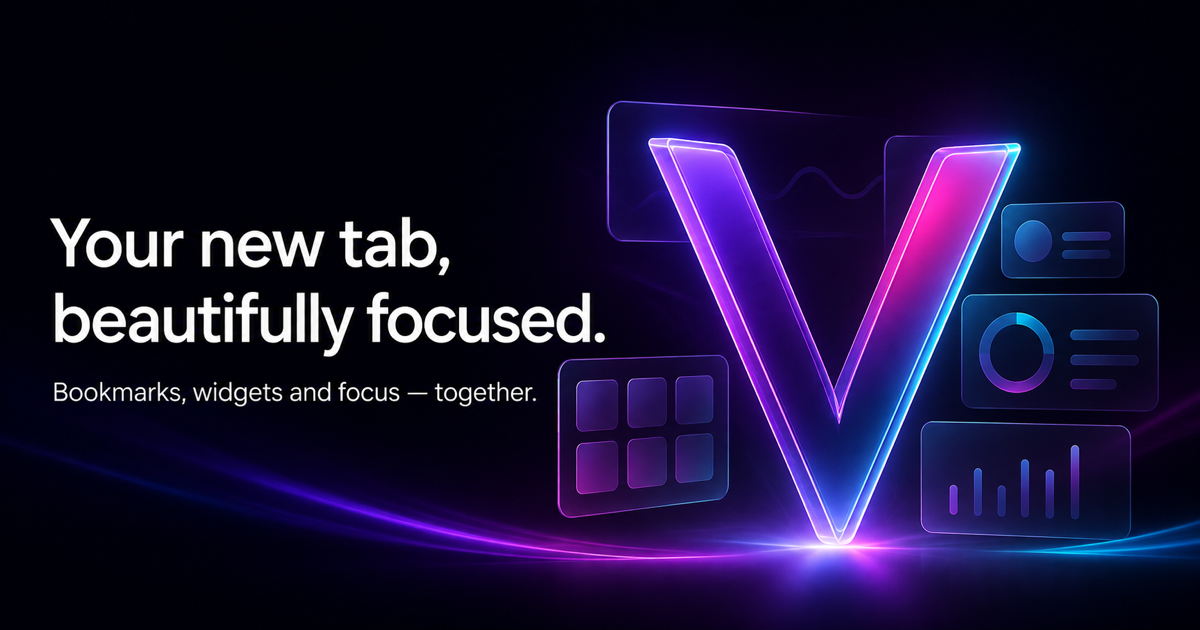
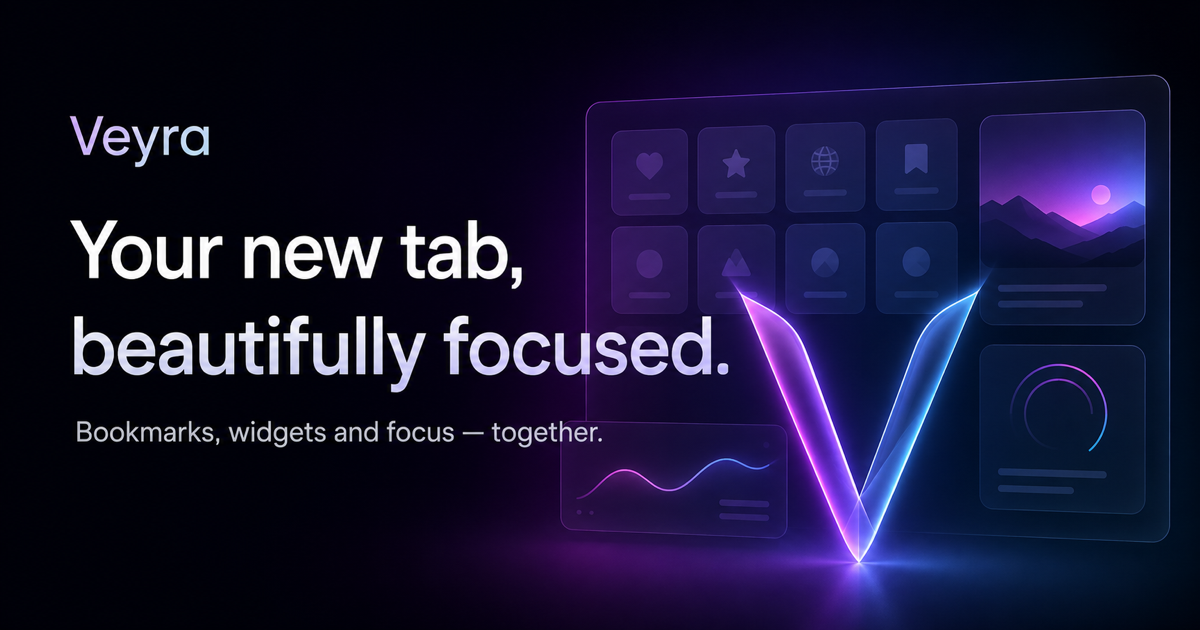
Rebrand site as Veyra and improve mobile layout

diff --git a/app/page.tsx b/app/page.tsx
@@ -12,13 +12,13 @@ const features = [
 ];
 
 const faqs = [
-  ['What happens to my current bookmarks?', 'Nothing is removed. Viora works alongside your browser bookmarks, and you can import them into visual boards whenever you are ready.'],
+  ['What happens to my current bookmarks?', 'Nothing is removed. Veyra works alongside your browser bookmarks, and you can import them into visual boards whenever you are ready.'],
   ['Is this a subscription?', 'No. Both options are one-time purchases. The one-year pass never renews automatically, while the lifetime plan is yours for good.'],
-  ['Which browsers are supported?', 'Viora works on desktop versions of Chrome, Edge, Brave, Opera and other Chromium-based browsers.'],
+  ['Which browsers are supported?', 'Veyra works on desktop versions of Chrome, Edge, Brave, Opera and other Chromium-based browsers.'],
   ['Can I use it on more than one computer?', 'Yes. Sign in with the same account and your boards stay in sync across your computers.'],
-  ['Is my information private?', 'Your workspace is yours. Viora does not sell personal information and does not use your bookmarks for advertising. See the Privacy Policy for full details.'],
-  ['Will it slow down my browser?', 'Viora is designed to stay lightweight. It loads when you open a new tab and avoids unnecessary background work.'],
-  ['How do I install after buying?', 'Your receipt includes an install link and activation instructions. Install Viora, open a new tab, and follow the short setup flow.'],
+  ['Is my information private?', 'Your workspace is yours. Veyra does not sell personal information and does not use your bookmarks for advertising. See the Privacy Policy for full details.'],
+  ['Will it slow down my browser?', 'Veyra is designed to stay lightweight. It loads when you open a new tab and avoids unnecessary background work.'],
+  ['How do I install after buying?', 'Your receipt includes an install link and activation instructions. Install Veyra, open a new tab, and follow the short setup flow.'],
   ['What if it is not for me?', 'You can request a refund within seven days of purchase, subject to the simple terms in our Refund Policy.'],
 ];
 
@@ -32,30 +32,40 @@ export default function Home() {
   return (
     <main>
       <nav className="nav shell" aria-label="Main navigation">
-        <a className="brand" href="#top" aria-label="Viora home"><NextImage src="/viora-logo.png" width={38} height={38} alt="" /><span>Viora</span></a>
+        <a className="brand" href="#top" aria-label="Veyra home"><NextImage src="/veyra-logo.png" width={38} height={38} alt="" /><span>Veyra</span></a>
         <div className="nav-links"><a href="#features">Features</a><a href="#how">How it works</a><a href="#pricing">Pricing</a><a href="#faq">FAQ</a></div>
-        <a className="button button-small" href="#pricing">Get Viora</a>
+        <a className="button button-small" href="#pricing">Get Veyra</a>
       </nav>
 
       <section className="hero shell" id="top">
         <div className="eyebrow"><span className="status-dot" /> Browser extension</div>
         <h1>Your new tab,<br /><span>beautifully focused.</span></h1>
         <p className="hero-copy">Bring your bookmarks, tools, notes and daily focus into one calm, personal workspace—ready every time you open a tab.</p>
-        <div className="hero-actions"><a className="button" href="#pricing">Get Viora <ArrowRight size={17} /></a><a className="text-link" href="#features">See what’s inside</a></div>
-        <div className="social-proof"><div className="avatars" aria-hidden="true"><span>AJ</span><span>ML</span><span>SK</span><span>+</span></div><p><strong>800+ people</strong> already use Viora</p></div>
+        <div className="hero-actions"><a className="button" href="#pricing">Get Veyra <ArrowRight size={17} /></a><a className="text-link" href="#features">See what’s inside</a></div>
+        <div className="social-proof"><div className="avatars" aria-hidden="true"><span>AJ</span><span>ML</span><span>SK</span><span>+</span></div><p><strong>800+ people</strong> already use Veyra</p></div>
         <div className="product-frame">
-          <div className="window-bar"><i /><i /><i /><span>New Tab — Viora</span></div>
-          <NextImage src="/viora-workspace.png" width={2538} height={1274} priority alt="Viora new-tab workspace with bookmarks, widgets, and a wallpaper" />
+          <div className="window-bar"><i /><i /><i /><span>New Tab — Veyra</span></div>
+          <NextImage src="/veyra-workspace.png" width={2538} height={1159} priority alt="Veyra new-tab workspace with bookmarks, widgets, and a wallpaper" />
           <div className="floating-note"><Check size={15} /> Everything you need, one tab away</div>
         </div>
-        <div className="browser-row"><span>Works with</span><b>Chrome</b><b>Edge</b><b>Brave</b><b>Opera</b><b>+ more</b></div>
+        <div className="browser-row" aria-label="Veyra works with Chrome, Yandex Browser, Microsoft Edge, Opera, Brave and more Chromium browsers">
+          <span>Works with</span>
+          <div className="browser-icons">
+            <NextImage src="/browsers/chrome.png" width={38} height={38} alt="Google Chrome" title="Google Chrome" />
+            <NextImage src="/browsers/yandex.png" width={38} height={38} alt="Yandex Browser" title="Yandex Browser" />
+            <NextImage src="/browsers/microsoft.png" width={38} height={38} alt="Microsoft Edge" title="Microsoft Edge" />
+            <NextImage src="/browsers/opera.png" width={38} height={38} alt="Opera" title="Opera" />
+            <NextImage src="/browsers/brave.png" width={38} height={38} alt="Brave" title="Brave" />
+          </div>
+          <b>+ more</b>
+        </div>
       </section>
 
       <section className="section shell" id="features">
-        <div className="section-head"><div className="eyebrow">Why Viora</div><h2>Your browser opens a new tab.<br />Viora opens your day.</h2><p>Stop treating bookmarks like a filing cabinet. Put the things you care about on the page you already see all day.</p></div>
+        <div className="section-head"><div className="eyebrow">Why Veyra</div><h2>Your browser opens a new tab.<br />Veyra opens your day.</h2><p>Stop treating bookmarks like a filing cabinet. Put the things you care about on the page you already see all day.</p></div>
         <div className="compare-grid">
           <article className="compare-card dim"><p className="card-kicker">A normal new tab</p><ul><li><span>×</span>A blank page or someone else’s shortcuts</li><li><span>×</span>Too many tabs open “for later”</li><li><span>×</span>Bookmarks buried inside folders</li><li><span>×</span>Useful tools scattered across apps</li></ul></article>
-          <article className="compare-card bright"><p className="card-kicker">Your new tab with Viora</p><ul><li><Check />Everything saved where you can see it</li><li><Check />One shortcut to save, then close the tab</li><li><Check />Visual boards that stay memorable</li><li><Check />Widgets and focus tools in one place</li></ul></article>
+          <article className="compare-card bright"><p className="card-kicker">Your new tab with Veyra</p><ul><li><Check />Everything saved where you can see it</li><li><Check />One shortcut to save, then close the tab</li><li><Check />Visual boards that stay memorable</li><li><Check />Widgets and focus tools in one place</li></ul></article>
         </div>
 
         <div className="section-head feature-heading"><div className="eyebrow">Features</div><h2>Everything you need.<br />Nothing you don’t.</h2></div>
@@ -75,8 +85,8 @@ export default function Home() {
       <section className="section shell" id="pricing">
         <div className="section-head"><div className="eyebrow">Pricing</div><h2>Upgrade your everyday browsing.</h2><p className="offer">Launch offer · 50% off</p></div>
         <div className="pricing-grid">
-          <article className="price-card"><p className="card-kicker">1-Year Pass</p><div className="price"><s>$18</s><strong>$9</strong><span>/ year</span></div><small>ONE-TIME PAYMENT · NO AUTO-RENEWAL</small><ul><li><Check />Full access for 12 months</li><li><Check />Unlimited boards and pages</li><li><Check />All widgets, wallpapers and updates</li><li><Check />Use on all your computers</li><li><Check />Friendly support included</li></ul><a className="button secondary-button" href="#checkout-note">Get one year for $9</a><p className="guarantee">7-day money-back guarantee</p></article>
-          <article className="price-card featured"><span className="best">Best value</span><p className="card-kicker">Lifetime Access</p><div className="price"><s>$50</s><strong>$25</strong></div><small>ONE-TIME PAYMENT · YOURS FOREVER</small><ul><li><Check />Lifetime access, pay once</li><li><Check />Unlimited boards and pages</li><li><Check />All widgets, wallpapers and updates</li><li><Check />Use on all your computers</li><li><Check />Priority support included</li></ul><a className="button" href="#checkout-note">Get lifetime for $25</a><p className="guarantee">7-day money-back guarantee</p></article>
+          <article className="price-card"><p className="card-kicker">1-Year Pass</p><div className="price"><s>$25.60</s><strong>$12.80</strong><span>/ year</span></div><small>ONE-TIME PAYMENT · NO AUTO-RENEWAL</small><ul><li><Check />Full access for 12 months</li><li><Check />Unlimited boards and pages</li><li><Check />All widgets, wallpapers and updates</li><li><Check />Use on all your computers</li><li><Check />Friendly support included</li></ul><a className="button secondary-button" href="#checkout-note">Get one year for $12.80</a><p className="guarantee">7-day money-back guarantee</p></article>
+          <article className="price-card featured"><span className="best">Best value</span><p className="card-kicker">Lifetime Access</p><div className="price"><s>$45.60</s><strong>$22.80</strong></div><small>ONE-TIME PAYMENT · YOURS FOREVER</small><ul><li><Check />Lifetime access, pay once</li><li><Check />Unlimited boards and pages</li><li><Check />All widgets, wallpapers and updates</li><li><Check />Use on all your computers</li><li><Check />Priority support included</li></ul><a className="button" href="#checkout-note">Get lifetime for $22.80</a><p className="guarantee">7-day money-back guarantee</p></article>
         </div>
         <p id="checkout-note" className="checkout-note"><Sparkles size={17} /> Checkout links are ready to connect to your payment provider.</p>
       </section>
@@ -88,7 +98,7 @@ export default function Home() {
 
       <section className="final-cta"><div className="orb orb-one" /><div className="orb orb-two" /><div className="shell"><Bookmark size={28} /><h2>Make every new tab<br />a place worth opening.</h2><p>One purchase. A calmer, more personal browser every day.</p><a className="button" href="#pricing">Choose your plan <ArrowRight size={17} /></a></div></section>
 
-      <footer><div className="shell footer-grid"><div><a className="brand" href="#top"><NextImage src="/viora-logo.png" width={38} height={38} alt="" /><span>Viora</span></a><p>Your new tab, beautifully focused.</p></div><div><h3>Product</h3><a href="#features">Features</a><a href="#pricing">Pricing</a><a href="#faq">FAQ</a></div><div><h3>Legal</h3><Link href="/privacy">Privacy Policy</Link><Link href="/terms">Terms of Service</Link><Link href="/cookies">Cookie Policy</Link><Link href="/refunds">Refund Policy</Link></div><div><h3>Help</h3><Link href="/support">Support</Link><Link href="/license">License</Link></div></div><div className="shell footer-bottom"><span>© 2026 Viora. All rights reserved.</span><span>Made for calmer browsing.</span></div></footer>
+      <footer><div className="shell footer-grid"><div><a className="brand" href="#top"><NextImage src="/veyra-logo.png" width={38} height={38} alt="" /><span>Veyra</span></a><p>Your new tab, beautifully focused.</p></div><div><h3>Product</h3><a href="#features">Features</a><a href="#pricing">Pricing</a><a href="#faq">FAQ</a></div><div><h3>Legal</h3><Link href="/privacy">Privacy Policy</Link><Link href="/terms">Terms of Service</Link><Link href="/cookies">Cookie Policy</Link><Link href="/refunds">Refund Policy</Link></div><div><h3>Help</h3><Link href="/support">Support</Link><Link href="/license">License</Link><a href="mailto:veyrasoft@gmail.com">veyrasoft@gmail.com</a></div></div><div className="shell footer-bottom"><span>© 2026 Veyra. All rights reserved.</span><span>Made for calmer browsing.</span></div></footer>
     </main>
   );
 }

diff --git a/app/privacy/page.tsx b/app/privacy/page.tsx
@@ -1,2 +1,2 @@
 import { LegalPage } from '@/components/legal-page';
-export default function Privacy(){return <LegalPage title="Privacy Policy"><p>This policy explains how Viora handles information when you use the website and browser extension.</p><h2>Information we collect</h2><p>We may collect account details you provide, purchase and licence status, support messages, and limited technical information needed to operate and improve Viora. Payment card details are processed by the selected payment provider and are not stored by Viora.</p><h2>Your workspace data</h2><p>Bookmarks, boards, notes and preferences may be stored locally in your browser or synced when you choose an account-based feature. We use that information only to provide the product, maintain security, and respond to support requests. We do not sell personal information or use bookmark contents for targeted advertising.</p><h2>Browser permissions</h2><p>Viora requests only the browser permissions required for features such as replacing the new-tab page, importing bookmarks, saving the active tab, storing preferences and optional account sync. Permissions are described in the extension listing.</p><h2>Service providers</h2><p>We may use vetted providers for hosting, authentication, analytics, email support and payment processing. They may process limited information on our behalf under their own security and privacy obligations.</p><h2>Retention and security</h2><p>We retain personal information only while needed for the purposes described here, legal obligations, fraud prevention and dispute resolution. Reasonable administrative and technical safeguards are used, but no online service can promise absolute security.</p><h2>Your choices</h2><p>You may export or delete locally stored workspace data through the extension. You may also request access, correction or deletion of account information, subject to applicable law.</p><h2>Children</h2><p>Viora is not directed to children under 13 and we do not knowingly collect their personal information.</p><h2>Changes and contact</h2><p>We may update this policy as the product evolves. Material changes will be posted here. Add your support email before launch for privacy requests.</p></LegalPage>}
+export default function Privacy(){return <LegalPage title="Privacy Policy"><p>This policy explains how Veyra handles information when you use the website and browser extension.</p><h2>Information we collect</h2><p>We may collect account details you provide, purchase and licence status, support messages, and limited technical information needed to operate and improve Veyra. Payment card details are processed by the selected payment provider and are not stored by Veyra.</p><h2>Your workspace data</h2><p>Bookmarks, boards, notes and preferences may be stored locally in your browser or synced when you choose an account-based feature. We use that information only to provide the product, maintain security, and respond to support requests. We do not sell personal information or use bookmark contents for targeted advertising.</p><h2>Browser permissions</h2><p>Veyra requests only the browser permissions required for features such as replacing the new-tab page, importing bookmarks, saving the active tab, storing preferences and optional account sync. Permissions are described in the extension listing.</p><h2>Service providers</h2><p>We may use vetted providers for hosting, authentication, analytics, email support and payment processing. They may process limited information on our behalf under their own security and privacy obligations.</p><h2>Retention and security</h2><p>We retain personal information only while needed for the purposes described here, legal obligations, fraud prevention and dispute resolution. Reasonable administrative and technical safeguards are used, but no online service can promise absolute security.</p><h2>Your choices</h2><p>You may export or delete locally stored workspace data through the extension. You may also request access, correction or deletion of account information, subject to applicable law.</p><h2>Children</h2><p>Veyra is not directed to children under 13 and we do not knowingly collect their personal information.</p><h2>Changes and contact</h2><p>We may update this policy as the product evolves. Material changes will be posted here. For privacy requests, email <a href="mailto:veyrasoft@gmail.com">veyrasoft@gmail.com</a>.</p></LegalPage>}

diff --git a/app/terms/page.tsx b/app/terms/page.tsx
@@ -1,2 +1,2 @@
 import { LegalPage } from '@/components/legal-page';
-export default function Terms(){return <LegalPage title="Terms of Service"><p>These terms govern your purchase and use of the Viora website, extension and related services.</p><h2>Using Viora</h2><p>You must be legally able to enter this agreement and use Viora only in compliance with applicable law. You are responsible for your account, devices and the content you save.</p><h2>Purchases and access</h2><p>The one-year pass provides access for twelve months and does not automatically renew. Lifetime access means access for the commercial life of the product, not the lifetime of an individual. Prices and included features are shown at checkout.</p><h2>Acceptable use</h2><p>You may not misuse the service, interfere with its operation, bypass licence controls, reverse engineer protected portions except where law permits, resell access, or use Viora to store or transmit unlawful content.</p><h2>Updates and availability</h2><p>We may improve, change or discontinue features. We aim to keep Viora reliable but do not guarantee uninterrupted or error-free operation. Browser updates and third-party services may affect compatibility.</p><h2>Intellectual property</h2><p>Viora, its software, branding, visual design and documentation are owned by the publisher or its licensors. Your purchase grants a limited licence described in the Licence Agreement; it does not transfer ownership.</p><h2>Disclaimers and liability</h2><p>To the maximum extent allowed by law, Viora is provided “as is.” We are not liable for indirect, incidental or consequential loss, or for loss of data that could reasonably have been backed up. Nothing here excludes rights that cannot legally be excluded.</p><h2>Termination</h2><p>We may suspend access for material breach, fraud or harmful use. You may stop using Viora at any time. Terms that by nature should survive termination will remain in effect.</p><h2>Governing law and contact</h2><p>Add your governing jurisdiction and legal contact details before launch. Consumer protections in your place of residence may still apply.</p></LegalPage>}
+export default function Terms(){return <LegalPage title="Terms of Service"><p>These terms govern your purchase and use of the Veyra website, extension and related services.</p><h2>Using Veyra</h2><p>You must be legally able to enter this agreement and use Veyra only in compliance with applicable law. You are responsible for your account, devices and the content you save.</p><h2>Purchases and access</h2><p>The one-year pass provides access for twelve months and does not automatically renew. Lifetime access means access for the commercial life of the product, not the lifetime of an individual. Prices and included features are shown at checkout.</p><h2>Acceptable use</h2><p>You may not misuse the service, interfere with its operation, bypass licence controls, reverse engineer protected portions except where law permits, resell access, or use Veyra to store or transmit unlawful content.</p><h2>Updates and availability</h2><p>We may improve, change or discontinue features. We aim to keep Veyra reliable but do not guarantee uninterrupted or error-free operation. Browser updates and third-party services may affect compatibility.</p><h2>Intellectual property</h2><p>Veyra, its software, branding, visual design and documentation are owned by the publisher or its licensors. Your purchase grants a limited licence described in the Licence Agreement; it does not transfer ownership.</p><h2>Disclaimers and liability</h2><p>To the maximum extent allowed by law, Veyra is provided “as is.” We are not liable for indirect, incidental or consequential loss, or for loss of data that could reasonably have been backed up. Nothing here excludes rights that cannot legally be excluded.</p><h2>Termination</h2><p>We may suspend access for material breach, fraud or harmful use. You may stop using Veyra at any time. Terms that by nature should survive termination will remain in effect.</p><h2>Governing law and contact</h2><p>Add your governing jurisdiction and legal contact details before launch. Consumer protections in your place of residence may still apply.</p></LegalPage>}

diff --git a/app/globals.css b/app/globals.css
@@ -7,3 +7,8 @@
 
 @media(max-width:800px){.feature-grid,.reviews{grid-template-columns:1fr 1fr}.steps{grid-template-columns:1fr}.steps svg{display:none}.footer-grid{grid-template-columns:1fr 1fr}.browser-row{flex-wrap:wrap}.section{padding:82px 0}}
 @media(max-width:700px){.nav-links{display:none}.hero{padding-top:64px}.hero-actions{flex-direction:column;gap:16px}.social-proof{flex-direction:column}.floating-note{right:8px;bottom:14px}.product-frame{padding:6px}.window-bar{height:34px}.product-frame>img{aspect-ratio:1.35}.compare-grid,.pricing-grid,.feature-grid,.reviews{grid-template-columns:1fr}.feature-heading{margin-top:82px}.browser-row span{width:100%}.footer-grid{gap:35px}.footer-bottom{flex-direction:column;gap:10px}}
+
+/* Browser compatibility strip and mobile-first refinements */
+body{overflow-x:hidden}.browser-row{gap:14px}.browser-row>b{color:#9e9aaa;font-size:13px}.browser-icons{display:flex;align-items:center}.browser-icons img{width:38px;height:38px;margin-left:-5px;border:2px solid var(--bg);border-radius:50%;object-fit:contain;background:#fff;box-shadow:0 5px 18px #0006}.browser-icons img:first-child{margin-left:0}
+@media(max-width:700px){.shell{width:min(100% - 28px,1160px)}.nav{height:72px}.brand{font-size:18px}.brand img{width:34px;height:34px}.button-small{min-height:44px;padding:10px 15px}.hero{padding:56px 0 76px}.hero h1{font-size:clamp(43px,13vw,62px);line-height:1}.hero-copy{margin-top:22px;font-size:16px;line-height:1.55}.hero-actions{gap:15px}.hero-actions .button{width:min(100%,320px);min-height:50px}.social-proof{margin:27px auto 40px;gap:8px}.product-frame{padding:5px;border-radius:16px}.window-bar{border-radius:11px 11px 0 0}.product-frame>img{aspect-ratio:1.2;object-position:center}.floating-note{display:none}.browser-row{margin-top:30px;gap:10px;flex-wrap:nowrap}.browser-row span{width:auto;white-space:nowrap}.browser-icons img{width:32px;height:32px;margin-left:-7px}.browser-row b{white-space:nowrap;font-size:12px}.section{padding:72px 0}.section-head{margin-bottom:38px}.section-head h2,.final-cta h2{font-size:clamp(34px,10vw,46px)}.section-head>p{font-size:15px}.compare-card,.feature-card,.price-card{padding:24px}.feature-card{min-height:0}.feature-heading{margin-top:76px}.reviews figure{min-height:230px;padding:24px}.price strong{font-size:45px}.price span{font-size:13px}.price-card .button{min-height:50px}.checkout-note{text-align:center}.faq-section{width:min(100% - 28px,820px)}.faq-list summary{padding:19px 18px;gap:15px;font-size:15px}.faq-list details p{padding:0 18px 19px;font-size:14px}.final-cta{padding:78px 0}.footer-grid{grid-template-columns:1fr 1fr;gap:35px}.footer-grid>div:first-child{grid-column:1/-1}.legal-shell{width:min(100% - 30px,760px);padding:36px 0 80px}.legal-shell .brand{margin-bottom:48px}.legal-shell h1{font-size:42px}.legal-notice{padding:15px}.legal-shell h2{margin-top:34px;font-size:22px}}
+@media(max-width:390px){.nav .button-small{font-size:12px;padding-inline:12px}.hero h1{font-size:40px}.browser-row{gap:7px}.browser-icons img{width:29px;height:29px}.browser-row>span,.browser-row>b{font-size:11px}.price strong{font-size:40px}.footer-grid{grid-template-columns:1fr}.footer-grid>div:first-child{grid-column:auto}}

diff --git a/app/license/page.tsx b/app/license/page.tsx
@@ -1,2 +1,2 @@
 import { LegalPage } from '@/components/legal-page';
-export default function License(){return <LegalPage title="Licence Agreement"><p>Your purchase grants you a personal, limited, non-exclusive, non-transferable and revocable licence to install and use Viora on your own supported devices.</p><h2>What the licence allows</h2><p>You may use Viora for personal or professional productivity and install it on multiple computers you own or control, using one account where account access is provided.</p><h2>What it does not allow</h2><p>You may not distribute copies, share activation credentials outside your household or organisation, sell or sublicense access, remove ownership notices, or attempt to extract protected source code except where applicable law expressly permits.</p><h2>One-year and lifetime access</h2><p>A one-year licence ends twelve months after activation. A lifetime licence continues for the commercial life of Viora, subject to these terms and supported platforms. It does not guarantee that every present feature or third-party integration will remain unchanged forever.</p><h2>Ownership and termination</h2><p>The software remains the property of the publisher and its licensors. This licence ends automatically if you materially breach it. On termination, you must stop using and remove the software, except where applicable law provides otherwise.</p></LegalPage>}
+export default function License(){return <LegalPage title="Licence Agreement"><p>Your purchase grants you a personal, limited, non-exclusive, non-transferable and revocable licence to install and use Veyra on your own supported devices.</p><h2>What the licence allows</h2><p>You may use Veyra for personal or professional productivity and install it on multiple computers you own or control, using one account where account access is provided.</p><h2>What it does not allow</h2><p>You may not distribute copies, share activation credentials outside your household or organisation, sell or sublicense access, remove ownership notices, or attempt to extract protected source code except where applicable law expressly permits.</p><h2>One-year and lifetime access</h2><p>A one-year licence ends twelve months after activation. A lifetime licence continues for the commercial life of Veyra, subject to these terms and supported platforms. It does not guarantee that every present feature or third-party integration will remain unchanged forever.</p><h2>Ownership and termination</h2><p>The software remains the property of the publisher and its licensors. This licence ends automatically if you materially breach it. On termination, you must stop using and remove the software, except where applicable law provides otherwise.</p></LegalPage>}

diff --git a/app/cookies/page.tsx b/app/cookies/page.tsx
@@ -1,2 +1,2 @@
 import { LegalPage } from '@/components/legal-page';
-export default function Cookies(){return <LegalPage title="Cookie Policy"><p>This policy describes cookies and similar storage used on the Viora website.</p><h2>Essential storage</h2><p>We may use essential cookies or local storage to remember security settings, maintain a checkout session, prevent fraud and keep the website functioning. These cannot always be disabled without affecting the service.</p><h2>Preferences and measurement</h2><p>If enabled, preference storage remembers choices such as display settings. Privacy-respecting analytics may help us understand aggregate visits and improve pages. Non-essential technologies should be activated only after any consent required in your region.</p><h2>Third-party services</h2><p>Payment, video or support providers may set their own cookies when their features are used. Their policies explain how they handle information.</p><h2>Your controls</h2><p>You can remove or block cookies through browser settings. Doing so may reset preferences or prevent parts of checkout from working. Update this page and add a consent control if non-essential analytics or advertising tools are introduced.</p></LegalPage>}
+export default function Cookies(){return <LegalPage title="Cookie Policy"><p>This policy describes cookies and similar storage used on the Veyra website.</p><h2>Essential storage</h2><p>We may use essential cookies or local storage to remember security settings, maintain a checkout session, prevent fraud and keep the website functioning. These cannot always be disabled without affecting the service.</p><h2>Preferences and measurement</h2><p>If enabled, preference storage remembers choices such as display settings. Privacy-respecting analytics may help us understand aggregate visits and improve pages. Non-essential technologies should be activated only after any consent required in your region.</p><h2>Third-party services</h2><p>Payment, video or support providers may set their own cookies when their features are used. Their policies explain how they handle information.</p><h2>Your controls</h2><p>You can remove or block cookies through browser settings. Doing so may reset preferences or prevent parts of checkout from working. Update this page and add a consent control if non-essential analytics or advertising tools are introduced.</p></LegalPage>}

diff --git a/app/support/page.tsx b/app/support/page.tsx
@@ -1,2 +1,2 @@
 import { LegalPage } from '@/components/legal-page';
-export default function Support(){return <LegalPage title="Support"><p>Need a hand with Viora? Start with the checks below. Add your support inbox and normal response time before launch.</p><h2>Installation</h2><p>Use the installation link in your purchase receipt, confirm the extension is enabled, then open a new tab. If the receipt is missing, check spam or promotions folders before contacting support.</p><h2>Activation</h2><p>Copy the licence details exactly as shown in your receipt. If activation fails, include your order number, browser name and a screenshot of the message when contacting support. Never send passwords or full payment-card details.</p><h2>Sync and bookmarks</h2><p>Confirm you are signed in with the same Viora account on each computer. Importing bookmarks makes a copy inside Viora and does not delete the originals from your browser.</p><h2>Refunds and privacy</h2><p>See the Refund Policy for the seven-day request process and the Privacy Policy for data questions, export and deletion information.</p></LegalPage>}
+export default function Support(){return <LegalPage title="Support"><p>Need a hand with Veyra? Email <a href="mailto:veyrasoft@gmail.com">veyrasoft@gmail.com</a>. Start with the checks below so we can help quickly.</p><h2>Installation</h2><p>Use the installation link in your purchase receipt, confirm the extension is enabled, then open a new tab. If the receipt is missing, check spam or promotions folders before contacting support.</p><h2>Activation</h2><p>Copy the licence details exactly as shown in your receipt. If activation fails, include your order number, browser name and a screenshot of the message when contacting support. Never send passwords or full payment-card details.</p><h2>Sync and bookmarks</h2><p>Confirm you are signed in with the same Veyra account on each computer. Importing bookmarks makes a copy inside Veyra and does not delete the originals from your browser.</p><h2>Refunds and privacy</h2><p>See the Refund Policy for the seven-day request process and the Privacy Policy for data questions, export and deletion information.</p></LegalPage>}

diff --git a/app/refunds/page.tsx b/app/refunds/page.tsx
@@ -1,2 +1,2 @@
 import { LegalPage } from '@/components/legal-page';
-export default function Refunds(){return <LegalPage title="Refund Policy"><p>We want Viora to be a confident purchase. Eligible purchases may be refunded within seven calendar days of the original transaction.</p><h2>How to request a refund</h2><p>Contact support from the email address used at checkout and include your order number. Add your support email and payment-provider instructions before launch.</p><h2>Eligibility</h2><p>A refund may be declined where required information cannot be verified, the request falls outside the stated period, there is evidence of fraud or abuse, or local law allows an exception. Your statutory consumer rights are not limited by this policy.</p><h2>After approval</h2><p>Approved refunds are returned to the original payment method. Processing time depends on the payment provider and financial institution. The related licence may be deactivated when a refund is issued.</p></LegalPage>}
+export default function Refunds(){return <LegalPage title="Refund Policy"><p>We want Veyra to be a confident purchase. Eligible purchases may be refunded within seven calendar days of the original transaction.</p><h2>How to request a refund</h2><p>Email <a href="mailto:veyrasoft@gmail.com">veyrasoft@gmail.com</a> from the address used at checkout and include your order number.</p><h2>Eligibility</h2><p>A refund may be declined where required information cannot be verified, the request falls outside the stated period, there is evidence of fraud or abuse, or local law allows an exception. Your statutory consumer rights are not limited by this policy.</p><h2>After approval</h2><p>Approved refunds are returned to the original payment method. Processing time depends on the payment provider and financial institution. The related licence may be deactivated when a refund is issued.</p></LegalPage>}

diff --git a/app/layout.tsx b/app/layout.tsx
@@ -13,21 +13,21 @@ const geistMono = Geist_Mono({
 });
 
 export const metadata: Metadata = {
-  metadataBase: new URL('https://viora-new-tab.senujalinal.chatgpt.site'),
+  metadataBase: new URL('https://veyra-new-tab.senujalinal.chatgpt.site'),
   title: {
-    default: 'Viora — Your new tab, beautifully focused',
-    template: '%s · Viora',
+    default: 'Veyra — Your new tab, beautifully focused',
+    template: '%s · Veyra',
   },
   description: 'A beautiful new-tab workspace for bookmarks, widgets, wallpapers and focus.',
   openGraph: {
-    title: 'Viora — Your new tab, beautifully focused',
+    title: 'Veyra — Your new tab, beautifully focused',
     description: 'Bookmarks, widgets and focus — together.',
     type: 'website',
-    images: [{ url: '/og.png', width: 1200, height: 630, alt: 'Viora — Your new tab, beautifully focused' }],
+    images: [{ url: '/og.png', width: 1200, height: 630, alt: 'Veyra — Your new tab, beautifully focused' }],
   },
   twitter: {
     card: 'summary_large_image',
-    title: 'Viora — Your new tab, beautifully focused',
+    title: 'Veyra — Your new tab, beautifully focused',
     description: 'Bookmarks, widgets and focus — together.',
     images: ['/og.png'],
   },

diff --git a/components/legal-page.tsx b/components/legal-page.tsx
@@ -5,11 +5,11 @@ import Link from 'next/link';
 
 export function LegalPage({ title, children }: { title: string; children: ReactNode }) {
   return <main className="legal-shell">
-    <Link className="brand" href="/"><Image src="/viora-logo.png" width={36} height={36} alt="" /><span>Viora</span></Link>
+    <Link className="brand" href="/"><Image src="/veyra-logo.png" width={36} height={36} alt="" /><span>Veyra</span></Link>
     <h1>{title}</h1>
     <p className="legal-meta">Effective 6 September 2026</p>
-    <p className="legal-notice">This is a launch-ready policy template. Add your legal business name, registered address, contact email, payment provider and governing jurisdiction before accepting payments.</p>
+    <p className="legal-notice">This is a launch-ready policy template. Add your legal business name, registered address, payment provider and governing jurisdiction before accepting payments. Contact: veyrasoft@gmail.com.</p>
     {children}
-    <Link className="legal-back" href="/"><ArrowLeft size={17} /> Back to Viora</Link>
+    <Link className="legal-back" href="/"><ArrowLeft size={17} /> Back to Veyra</Link>
   </main>;
 }

diff --git a/app/sitemap.ts b/app/sitemap.ts
@@ -1,5 +1,5 @@
 import type { MetadataRoute } from 'next';
 export default function sitemap(): MetadataRoute.Sitemap {
   const routes = ['', '/privacy', '/terms', '/cookies', '/refunds', '/license', '/support'];
-  return routes.map((route) => ({ url: `https://viora-new-tab.senujalinal.chatgpt.site${route}`, lastModified: new Date(), changeFrequency: route ? 'yearly' : 'monthly', priority: route ? 0.5 : 1 }));
+  return routes.map((route) => ({ url: `https://veyra-new-tab.senujalinal.chatgpt.site${route}`, lastModified: new Date(), changeFrequency: route ? 'yearly' : 'monthly', priority: route ? 0.5 : 1 }));
 }

diff --git a/app/robots.ts b/app/robots.ts
@@ -1,2 +1,2 @@
 import type { MetadataRoute } from 'next';
-export default function robots(): MetadataRoute.Robots { return { rules: { userAgent: '*', allow: '/' }, sitemap: 'https://viora-new-tab.senujalinal.chatgpt.site/sitemap.xml' }; }
+export default function robots(): MetadataRoute.Robots { return { rules: { userAgent: '*', allow: '/' }, sitemap: 'https://veyra-new-tab.senujalinal.chatgpt.site/sitemap.xml' }; }
